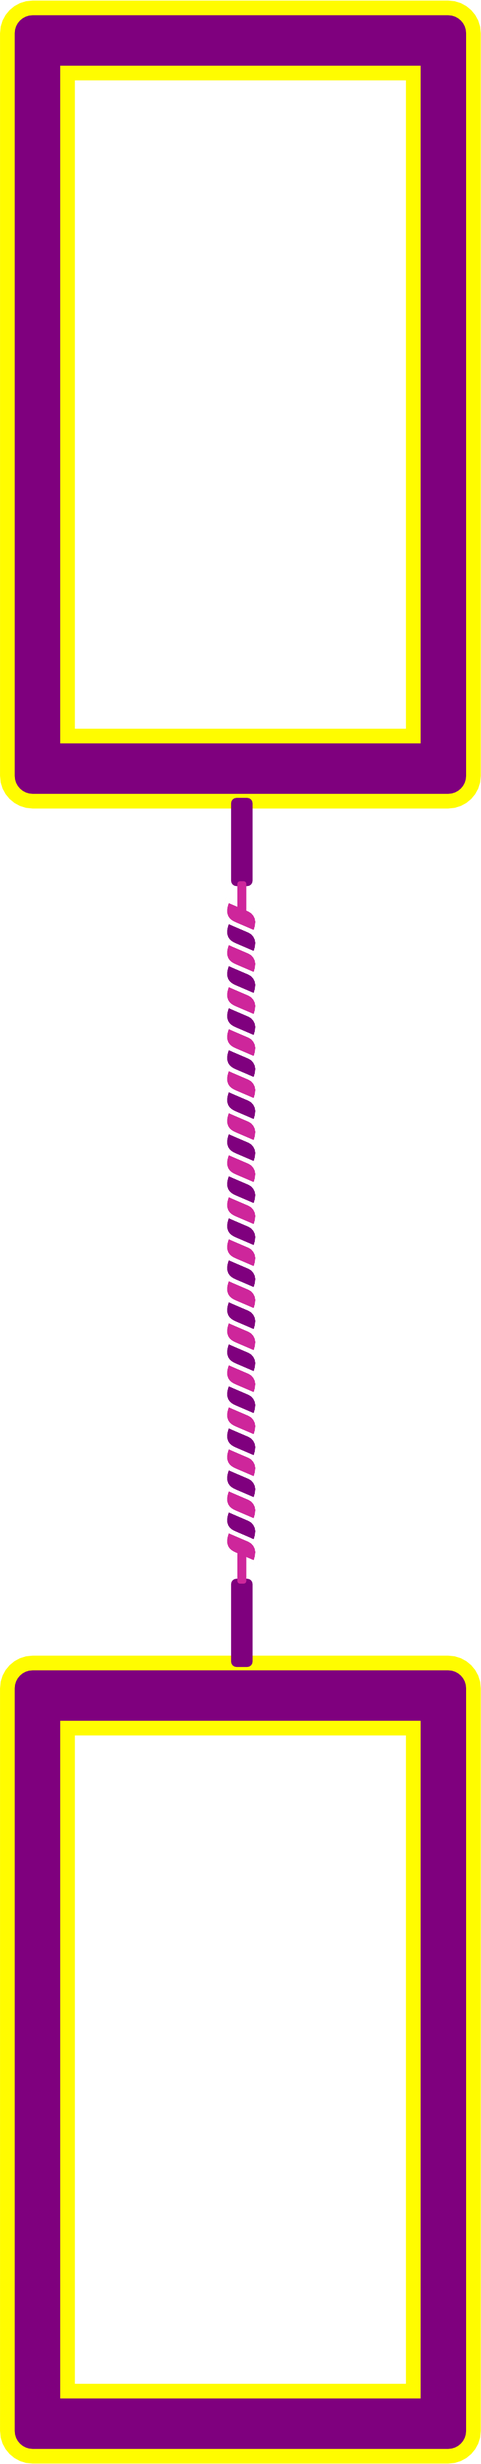
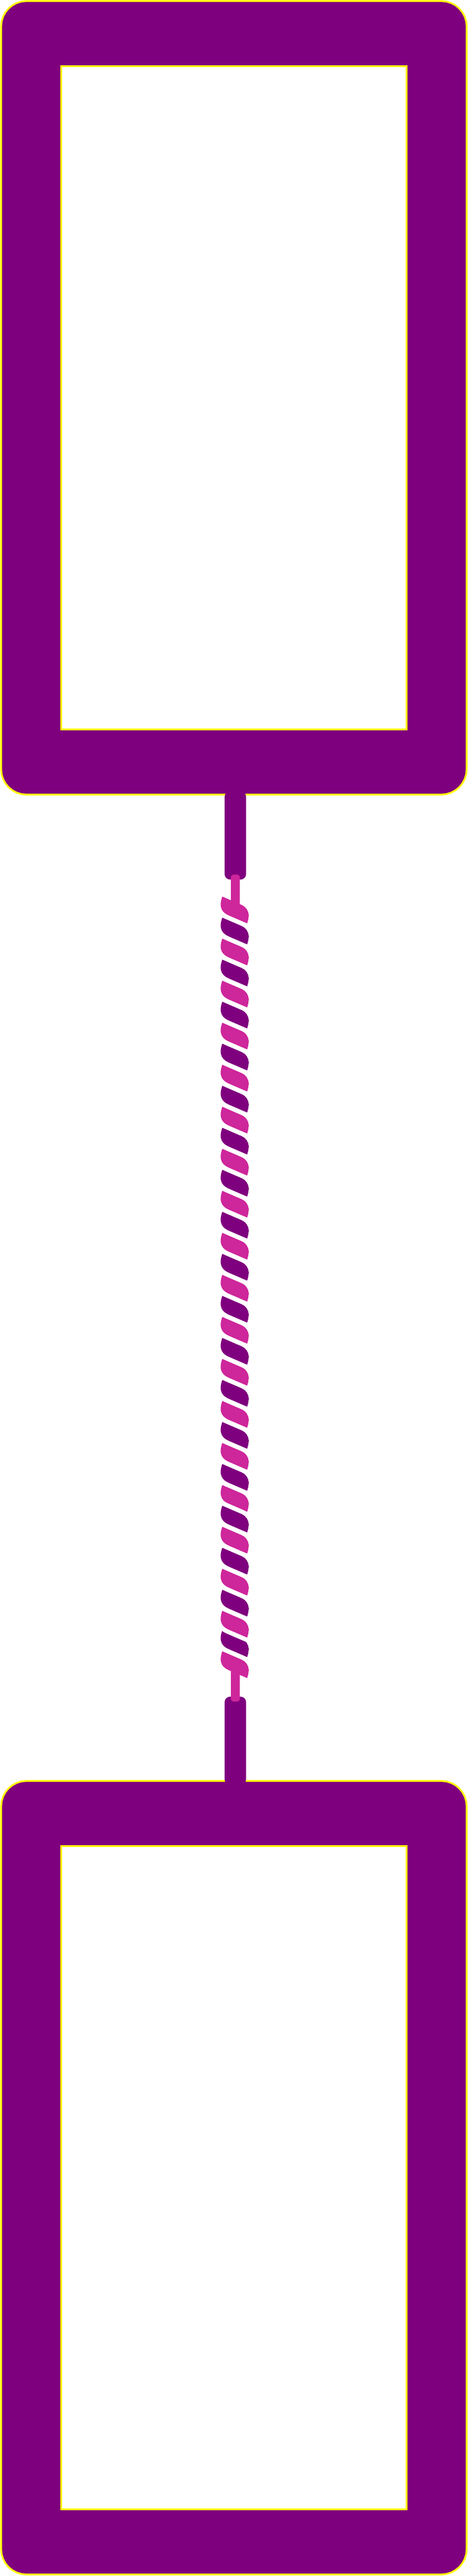
upgrade

Changed region(s): [[0.0, 0.0, 1.0, 1.0]]

diff --git a/index.html b/index.html
@@ -15,17 +15,21 @@
     <section class="bg-1">
         <div class="main-vertical">
             <div class="menu-logo">
-                <source srcset="https://ariovaldojm.github.io/transforme/images/logo_v2.webp" type="image/webp" width="400px">
-                <img src="https://ariovaldojm.github.io/transforme/images/logo_v2.png" 
-                    alt="Transforma Corda com Gabi" width="410px">
+                <picture>
+                    <source srcset="https://ariovaldojm.github.io/transforme/images/logo_v2.webp" type="image/webp">
+                    <img src="https://ariovaldojm.github.io/transforme/images/logo_v2.png" alt="Logo" width="380">
+                </picture>
             </div>
             <div class="card-1">
-                <source srcset="https://ariovaldojm.github.io/transforme/images/image_v2_3_mobile.webp" type="image/webp" width="300px">
+                <source srcset="https://ariovaldojm.github.io/transforme/images/image_v2_3_mobile.webp" type="image/webp">
                 <img src="https://ariovaldojm.github.io/transforme/images/image_v2_3_mobile.png" alt="Transforma Corda com Gabi" width="300px">
             </div>
             <div class="card-2">
-                <source srcset="https://ariovaldojm.github.io/transforme/images/image_v2_4_mobile.webp" type="image/webp" width="400px">
-                <img src="https://ariovaldojm.github.io/transforme/images/image_v2_4_mobile.png" alt="Transforma Corda com Gabi" width="400px">
+                <picture>
+                    <source srcset="https://ariovaldojm.github.io/transforme/images/image_v2_4_mobile.webp" type="image/webp">
+                    <img src="https://ariovaldojm.github.io/transforme/images/image_v2_4_mobile.png" alt="Transforma Corda com Gabi" width="360px">
+                    
+                </picture>
                 <div class="card-2-desctription">
                     <p>
                         <strong> 01) É SIMPLES!</strong>
@@ -35,8 +39,10 @@
                 </div>
             </div>
             <div class="card-3">
-                <source srcset="https://ariovaldojm.github.io/transforme/images/image_v2_4_mobile.webp" type="image/webp" width="400px">
-                <img src="https://ariovaldojm.github.io/transforme/images/image_v2_4_mobile.png" alt="Transforma Corda com Gabi" width="400px">
+                <picture>
+                    <source srcset="https://ariovaldojm.github.io/transforme/images/image_v2_4_mobile.webp" type="image/webp">
+                    <img src="https://ariovaldojm.github.io/transforme/images/image_v2_4_mobile.png" alt="Transforma Corda com Gabi" width="360px">
+                </picture>
                 <div class="card-3-desctription">
                     <p>
                         <strong> 02) É RÁPIDO!</strong>
@@ -46,8 +52,10 @@
                 </div>
             </div>
             <div class="card-4">
-                <source srcset="https://ariovaldojm.github.io/transforme/images/image_v2_4_mobile.webp" type="image/webp" width="400px">
-                <img src="https://ariovaldojm.github.io/transforme/images/image_v2_4_mobile.png" alt="Transforma Corda com Gabi" width="400px">
+                <picture>
+                    <source srcset="https://ariovaldojm.github.io/transforme/images/image_v2_4_mobile.webp" type="image/webp">
+                    <img src="https://ariovaldojm.github.io/transforme/images/image_v2_4_mobile.png" alt="Transforma Corda com Gabi" width="360px">
+                </picture>
                 <div class="card-4-desctription">
                     <p>
                         <strong> 03) É DIVERTIDO!</strong>
@@ -57,8 +65,10 @@
                 </div>
             </div>
             <div class="card-5">
-                <source srcset="https://ariovaldojm.github.io/transforme/images/image_v2_4_mobile.webp" type="image/webp" width="400px">
-                <img src="https://ariovaldojm.github.io/transforme/images/image_v2_4_mobile.png" alt="Transforma Corda com Gabi" width="400px">
+                <picture>
+                    <source srcset="https://ariovaldojm.github.io/transforme/images/image_v2_4_mobile.webp" type="image/webp">
+                    <img src="https://ariovaldojm.github.io/transforme/images/image_v2_4_mobile.png" alt="Transforma Corda com Gabi" width="360px">
+                </picture>
                 <div class="card-5-desctription">
                     <p>
                         <strong>04) É BARATO!</strong>
@@ -71,7 +81,7 @@
         <div class="container-bg-1-1"></div>
         <div class="container-bg-1-2">
             <div class="icon-6">
-                <source srcset="https://ariovaldojm.github.io/transforme/images/image_v2_12_mobile.webp" type="image/webp" width="50px">
+                <source srcset="https://ariovaldojm.github.io/transforme/images/image_v2_12_mobile.webp" type="image/webp">
                 <img src="https://ariovaldojm.github.io/transforme/images/image_v2_12_mobile.png" alt="" width="50px">
             </div>
             <p>“Eu não sabia nem por onde<br>
@@ -80,7 +90,7 @@
                 me transformar”...
             </p><br>
             <div class="icon-7">
-                <source srcset="https://ariovaldojm.github.io/transforme/images/image_v2_13_mobile.webp" type="image/webp" width="50px">
+                <source srcset="https://ariovaldojm.github.io/transforme/images/image_v2_13_mobile.webp" type="image/webp">
                 <img src="https://ariovaldojm.github.io/transforme/images/image_v2_13_mobile.png" alt="" width="50px">
             </div>
         </div>
@@ -90,9 +100,11 @@
     <!-- Bloco 2 com fundo -->
     <section class="bg-2">
         <div class="main-vertical">
-           <div class="card-7">
-                <source srcset="https://ariovaldojm.github.io/transforme/images/image_v2_15_mobile.webp" type="image/webp" width="270px">
-                <img src="https://ariovaldojm.github.io/transforme/images/image_v2_15_mobile.png" alt="Transforma Corda com Gabi" width="270px">
+            <div class="card-7">
+                <picture>
+                    <source srcset="../images/image_v2_15_mobile.webp" type="image/webp">
+                    <img src="https://ariovaldojm.github.io/transforme/images/image_v2_15_mobile.png" alt="" width="270px">
+                </picture>
             </div>
         </div>
         <div class="video-wrap-before">
@@ -137,9 +149,11 @@
             </a>
         </div>
         <div class="rope-btn">
-            <source srcset="https://ariovaldojm.github.io/transforme/images/image_v2_16_mobile.webp" type="image/webp" width="400px">
-            <img src="https://ariovaldojm.github.io/transforme/images/image_v2_16_mobile.png" 
-                alt="" width="410px">
+            <picture>
+                <source srcset="https://ariovaldojm.github.io/transforme/images/image_v2_16_mobile.webp" type="image/webp">
+                <img src="https://ariovaldojm.github.io/transforme/images/image_v2_16_mobile.png" 
+                alt="" width="360px">
+            </picture>
         </div>
 
     </section>

diff --git a/css/style.css b/css/style.css
@@ -5,12 +5,11 @@
     box-sizing: border-box;
     font-family: 'Lato', Arial, sans-serif;
 }
-@media (max-width: 768px) {
+@media (max-width: 430px) {
     .main-app {
-    display: flex;
-    flex-direction: column;
-    width: 100%;
-    
+        display: flex;
+        flex-direction: column;
+        width: 100%;
     }
 
     /* cada bloco ocupa tela cheia */
@@ -20,15 +19,6 @@
 
         background: url("../images/image_v2_1_mobile.webp") center/cover no-repeat;
     }
-    /* a régua central */
-    /* .main-vertical {
-        width: 80%;
-        height: 100%;              
-        border-left: dashed 1px rgba(255,255,255,0.9);
-        border-right: dashed 1px rgba(255,255,255,0.9);
-        position: relative;        
-        z-index: 1;
-    } */
     /* logo dentro da faixa central */
     .menu-logo {
         position: absolute;
@@ -89,11 +79,7 @@
         position: absolute;
         top: 778px;
         left: 50%;
-        transform: translateX(-50%); /* centraliza horizontalmente */
-    
-        display: flex;
-        align-items: center;
-        justify-content: center;
+        transform: translateX(-50%);
 
         z-index: 2;
     }
@@ -101,29 +87,25 @@
         position: absolute;
         top: 10px;
         left: 50%;
-        transform: translateX(-50%); /* centraliza horizontalmente */
+        transform: translateX(-50%);
 
-        width: 450px;
+        width: 360px;
 
         display: flex;
         flex-direction: column;
         text-align: center;
         justify-content: center;
 
-        font-size: 20px;
+        font-size: 18px;
         color: rgb(64,0,63);
 
-        z-index: 999;
+        z-index: 3;
     }
     .card-3 {
         position: absolute;
         top: 924px;
         left: 50%;
-        transform: translateX(-50%); /* centraliza horizontalmente */
-    
-        display: flex;
-        align-items: center;
-        justify-content: center;
+        transform: translateX(-50%); 
 
         z-index: 2;
     }
@@ -131,29 +113,24 @@
         position: absolute;
         top: 10px;
         left: 50%;
-        transform: translateX(-50%); /* centraliza horizontalmente */
-
-        width: 450px;
+        transform: translateX(-50%); 
+        width: 360px;
 
         display: flex;
         flex-direction: column;
         text-align: center;
         justify-content: center;
 
-        font-size: 20px;
+        font-size: 18px;
         color: rgb(64,0,63);
 
-        z-index: 999;
+        z-index: 3;
     }
     .card-4 {
         position: absolute;
         top: 1068px;
         left: 50%;
-        transform: translateX(-50%); /* centraliza horizontalmente */
-    
-        display: flex;
-        align-items: center;
-        justify-content: center;
+        transform: translateX(-50%); 
 
         z-index: 2;
     }
@@ -163,27 +140,23 @@
         left: 50%;
         transform: translateX(-50%); /* centraliza horizontalmente */
 
-        width: 450px;
+        width: 360px;
 
         display: flex;
         flex-direction: column;
         text-align: center;
         justify-content: center;
 
-        font-size: 20px;
+        font-size: 18px;
         color: rgb(64,0,63);
 
-        z-index: 999;
+        z-index: 3;
     }
     .card-5 {
         position: absolute;
         top: 1212px;
         left: 50%;
-        transform: translateX(-50%); /* centraliza horizontalmente */
-    
-        display: flex;
-        align-items: center;
-        justify-content: center;
+        transform: translateX(-50%); 
 
         z-index: 2;
     }
@@ -193,17 +166,17 @@
         left: 50%;
         transform: translateX(-50%); /* centraliza horizontalmente */
 
-        width: 450px;
+        width: 360px;
 
         display: flex;
         flex-direction: column;
         text-align: center;
         justify-content: center;
 
-        font-size: 20px;
+        font-size: 18px;
         color: rgb(64,0,63);
 
-        z-index: 999;
+        z-index: 3;
     }
     .container-bg-1-1 {
         position: absolute;
@@ -329,6 +302,7 @@
         top: 50px;
         left: 50%;
         transform: translateX(-50%);
+
     
         display: flex;
         align-items: center;
@@ -343,7 +317,7 @@
         transform: translateX(-50%);
 
         width: 100%;
-        max-width: 254px;  
+        max-width: 256px;  
         margin: 0 auto;
         aspect-ratio: 8 / 14; 
         
@@ -365,12 +339,12 @@
    
     .video-wrap-after {
         position: absolute;
-        top: 1002px;
+        top: 1082px;
         left: 50%;
         transform: translateX(-48%); 
 
         width: 100%;
-        max-width: 254px; 
+        max-width: 256px; 
         margin: 0 auto;
         aspect-ratio: 8 / 14; 
         overflow: hidden;
@@ -391,14 +365,14 @@
 
     .container-bg-2-1 {
         position: absolute;
-        top: 574px;
+        top: 598px;
         left: 50%;
         transform: translateX(-50%);
 
         z-index:999;
 
         width: 90%;
-        height: 340px;
+        height: 390px;
 
         display: flex;
         align-items: center;
@@ -413,7 +387,7 @@
     }
     .container-hr {
         position: absolute;
-        top: 60px;
+        top: 86px;
         left: 50%;
         transform: translateX(-50%);
 
@@ -446,7 +420,7 @@
 
     .btn {
         position: absolute;
-        top: 1490px;
+        top: 1590px;
         left: 50%;
         transform: translateX(-50%); 
         width: 56%;
@@ -467,7 +441,7 @@
     }
     .rope-btn {
         position: absolute;
-        top: 1516px;
+        top: 1616px;
         left: 50%;
         transform: translateX(-50%); 
 
